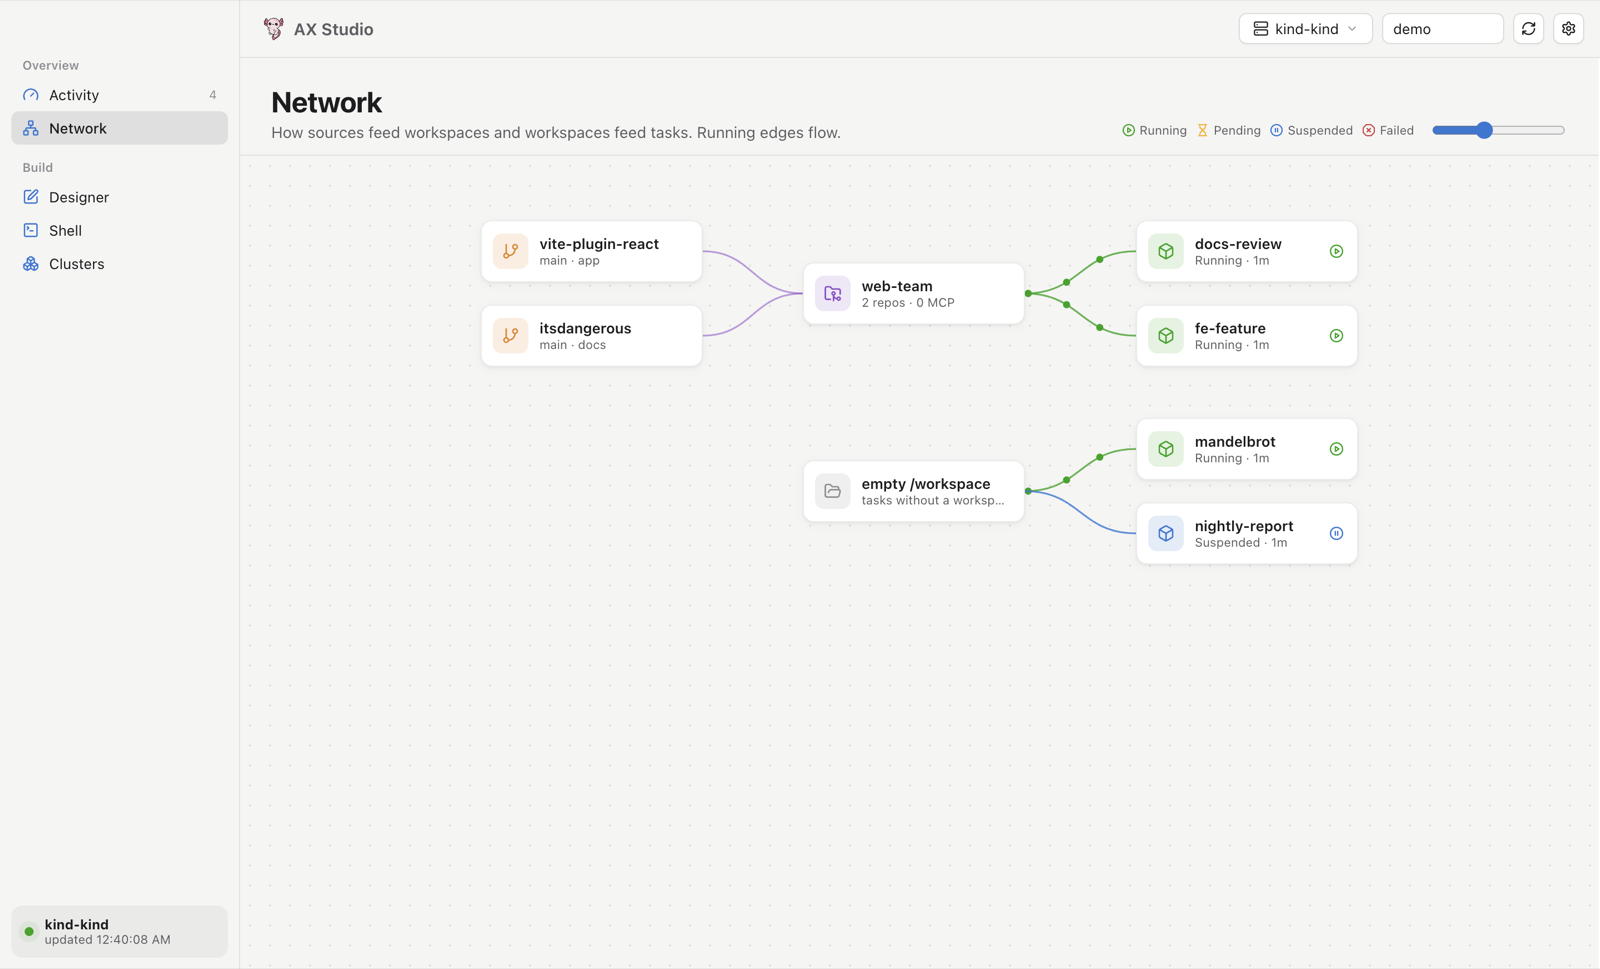
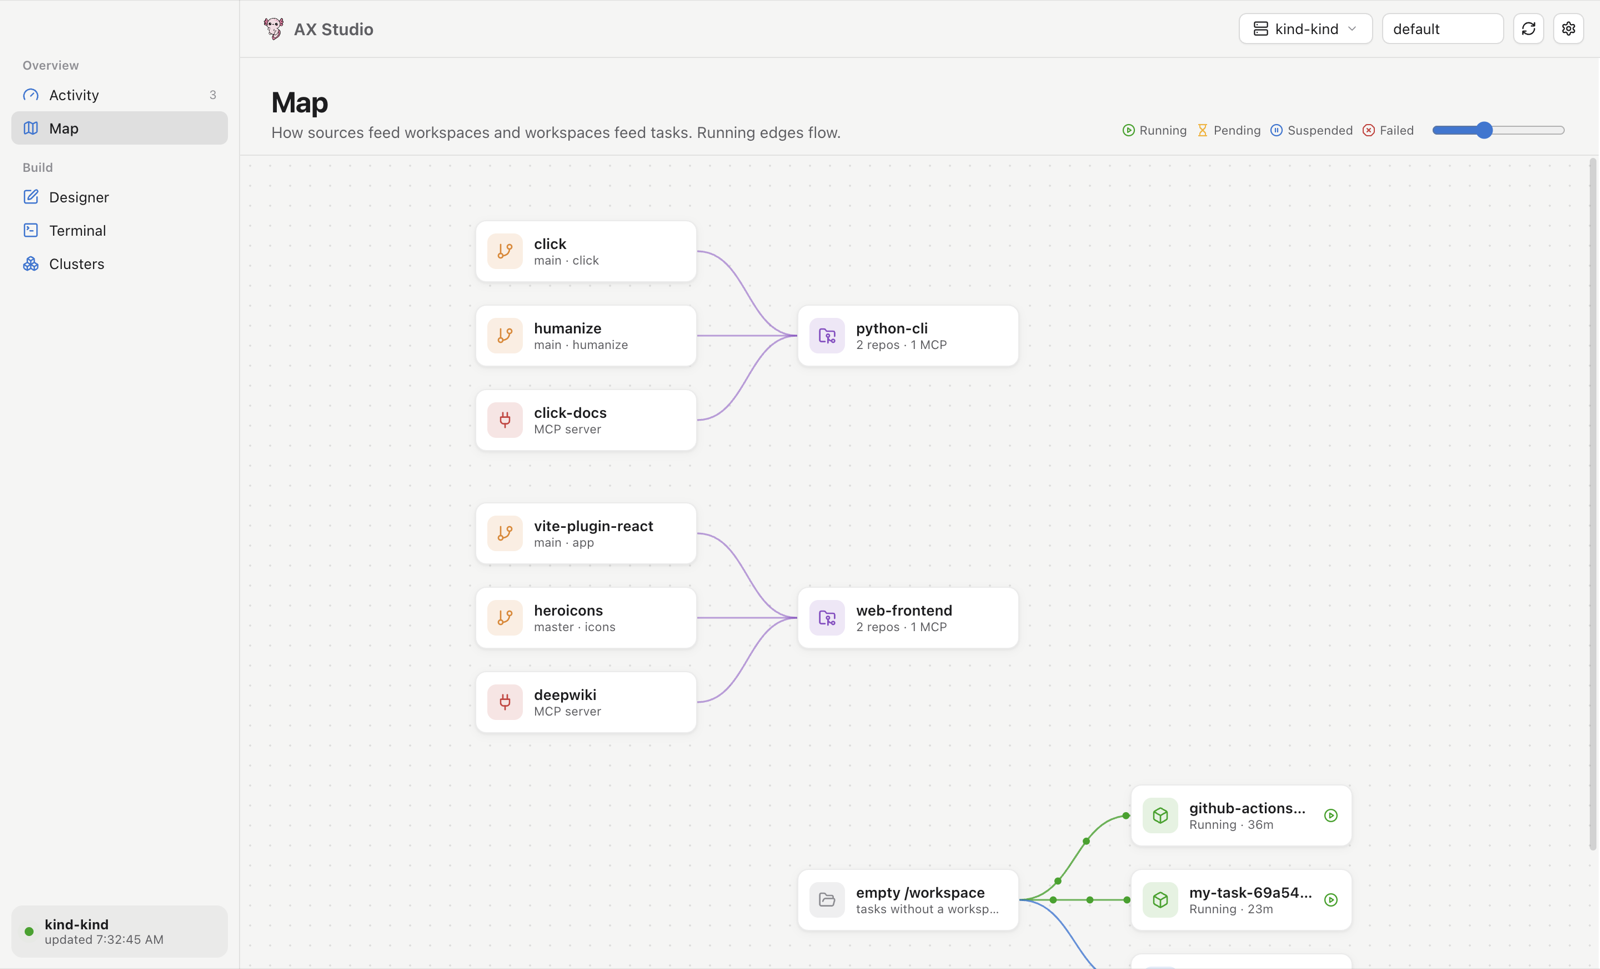
Rename Network to Map and update screenshots
Network suggested network traffic; the page maps how sources feed
workspaces and tasks. The section id stays topology, so --section=topology
still works.

diff --git a/src/renderer/src/views/Topology.tsx b/src/renderer/src/views/Topology.tsx
@@ -1,5 +1,5 @@
 import { useEffect, useLayoutEffect, useMemo, useRef, useState, type CSSProperties } from 'react'
-import { Box, FolderGit2, FolderOpen, GitBranch, Network, Plug, type LucideIcon } from 'lucide-react'
+import { Box, FolderGit2, FolderOpen, GitBranch, Map as MapIcon, Plug, type LucideIcon } from 'lucide-react'
 import { store, useStore, type State } from '../model/store'
 import { type AXTask, type AXWorkspace, type GitRepo, type Phase, phaseColor, phaseLabel, repoName } from '../model/resources'
 import { Empty, PageHeader, PhaseIcon } from '../components'
@@ -181,7 +181,7 @@ export function Topology() {
     <div className="topology-page">
       <div className="topology">
         <div className="topology-head">
-          <PageHeader title="Network" subtitle="How sources feed workspaces and workspaces feed tasks. Running edges flow.">
+          <PageHeader title="Map" subtitle="How sources feed workspaces and workspaces feed tasks. Running edges flow.">
             <div className="row topo-legend">
               {LEGEND.map((p) => (
                 <span key={p} className="row" style={{ gap: 4 }}>
@@ -198,7 +198,7 @@ export function Topology() {
         <div className="topo-scroll dotgrid" ref={scroller}
           onDoubleClick={(e) => { if (!(e.target as HTMLElement).closest('.topo-node')) setZoom(1) }}>
           {empty ? (
-            <Empty icon={Network} title="Nothing to draw yet">Create a Workspace or Task in the Designer to see it here.</Empty>
+            <Empty icon={MapIcon} title="Nothing to draw yet">Create a Workspace or Task in the Designer to see it here.</Empty>
           ) : (
             <div className="topo-sizer" ref={sizer} style={{ width: graph.width * zoom, height: graph.height * zoom }}>
               <div className="topo-canvas" style={{ width: graph.width, height: graph.height, transform: `scale(${zoom}) translateX(${-graph.left}px)` }}>

diff --git a/src/renderer/src/App.tsx b/src/renderer/src/App.tsx
@@ -1,5 +1,5 @@
 import { useEffect, useRef, useState } from 'react'
-import { Boxes, Gauge, Laptop, Network, RefreshCw, Server, Settings as SettingsIcon, SquarePen, SquareTerminal, ChevronDown, Check, type LucideIcon } from 'lucide-react'
+import { Boxes, Gauge, Laptop, Map as MapIcon, RefreshCw, Server, Settings as SettingsIcon, SquarePen, SquareTerminal, ChevronDown, Check, type LucideIcon } from 'lucide-react'
 import { store, useStore, type Section } from './model/store'
 import logo from './assets/axel.svg'
 import { designer } from './model/designer'
@@ -15,7 +15,7 @@ import './styles/app.css'
 
 const SECTIONS: { id: Section; title: string; icon: LucideIcon; group: 'Overview' | 'Build' }[] = [
   { id: 'overview', title: 'Activity', icon: Gauge, group: 'Overview' },
-  { id: 'topology', title: 'Network', icon: Network, group: 'Overview' },
+  { id: 'topology', title: 'Map', icon: MapIcon, group: 'Overview' },
   { id: 'designer', title: 'Designer', icon: SquarePen, group: 'Build' },
   { id: 'terminal', title: 'Terminal', icon: SquareTerminal, group: 'Build' },
   { id: 'clusters', title: 'Clusters', icon: Boxes, group: 'Build' },

diff --git a/src/renderer/src/views/Overview.tsx b/src/renderer/src/views/Overview.tsx
@@ -64,7 +64,7 @@ function Digest() {
       <div className="digest-divider" />
 
       <div className="digest-side">
-        <button className="row digest-link" onClick={() => store.setSection('topology')} title="Open Network">
+        <button className="row digest-link" onClick={() => store.setSection('topology')} title="Open Map">
           <FolderGit2 size={14} color="var(--purple)" /><span className="num">{s.workspaces.length}</span>
           <span className="muted">workspaces</span>
           <Cpu size={14} color="var(--teal)" style={{ marginLeft: 8 }} /><span className="num">{s.models.length}</span>

diff --git a/src/main/index.ts b/src/main/index.ts
@@ -85,7 +85,7 @@ function act(action: string, show = true) {
 
 function buildMenu() {
   const sections = ['overview', 'topology', 'designer', 'terminal', 'clusters']
-  const titles = ['Activity', 'Network', 'Designer', 'Terminal', 'Clusters']
+  const titles = ['Activity', 'Map', 'Designer', 'Terminal', 'Clusters']
   const template: MenuItemConstructorOptions[] = [
     ...(isMac ? [{ role: 'appMenu' as const }] : []),
     {

diff --git a/README.md b/README.md
@@ -8,7 +8,7 @@ AX clusters. Built with Electron, React and TypeScript for macOS, Windows and Li
 - **Activity:** a sortable task table with running tasks on top, and the
   atespace's workspaces. Resume, suspend or delete tasks, inspect conditions,
   follow logs and delete workspaces.
-- **Network:** a graph of sources, workspaces and tasks.
+- **Map:** a graph of sources, workspaces and tasks.
 - **Designer:** build tasks with a form or raw YAML, then create them.
 - **Terminal:** sessions into running tasks over `ax ssh`, in tabs that stay
   connected while you use the rest of the app.
@@ -16,7 +16,7 @@ AX clusters. Built with Electron, React and TypeScript for macOS, Windows and Li
 
 | | |
 |---|---|
-| ![Network](docs/screenshots/topology.png) **Network** | ![Designer](docs/screenshots/designer.png) **Designer** |
+| ![Map](docs/screenshots/topology.png) **Map** | ![Designer](docs/screenshots/designer.png) **Designer** |
 | ![Clusters](docs/screenshots/clusters.png) **Clusters** | ![Task logs](docs/screenshots/logs.png) **Task logs** |
 
 The app calls the `ax` CLI and `kubectl`. It passes `--context` on every call,
